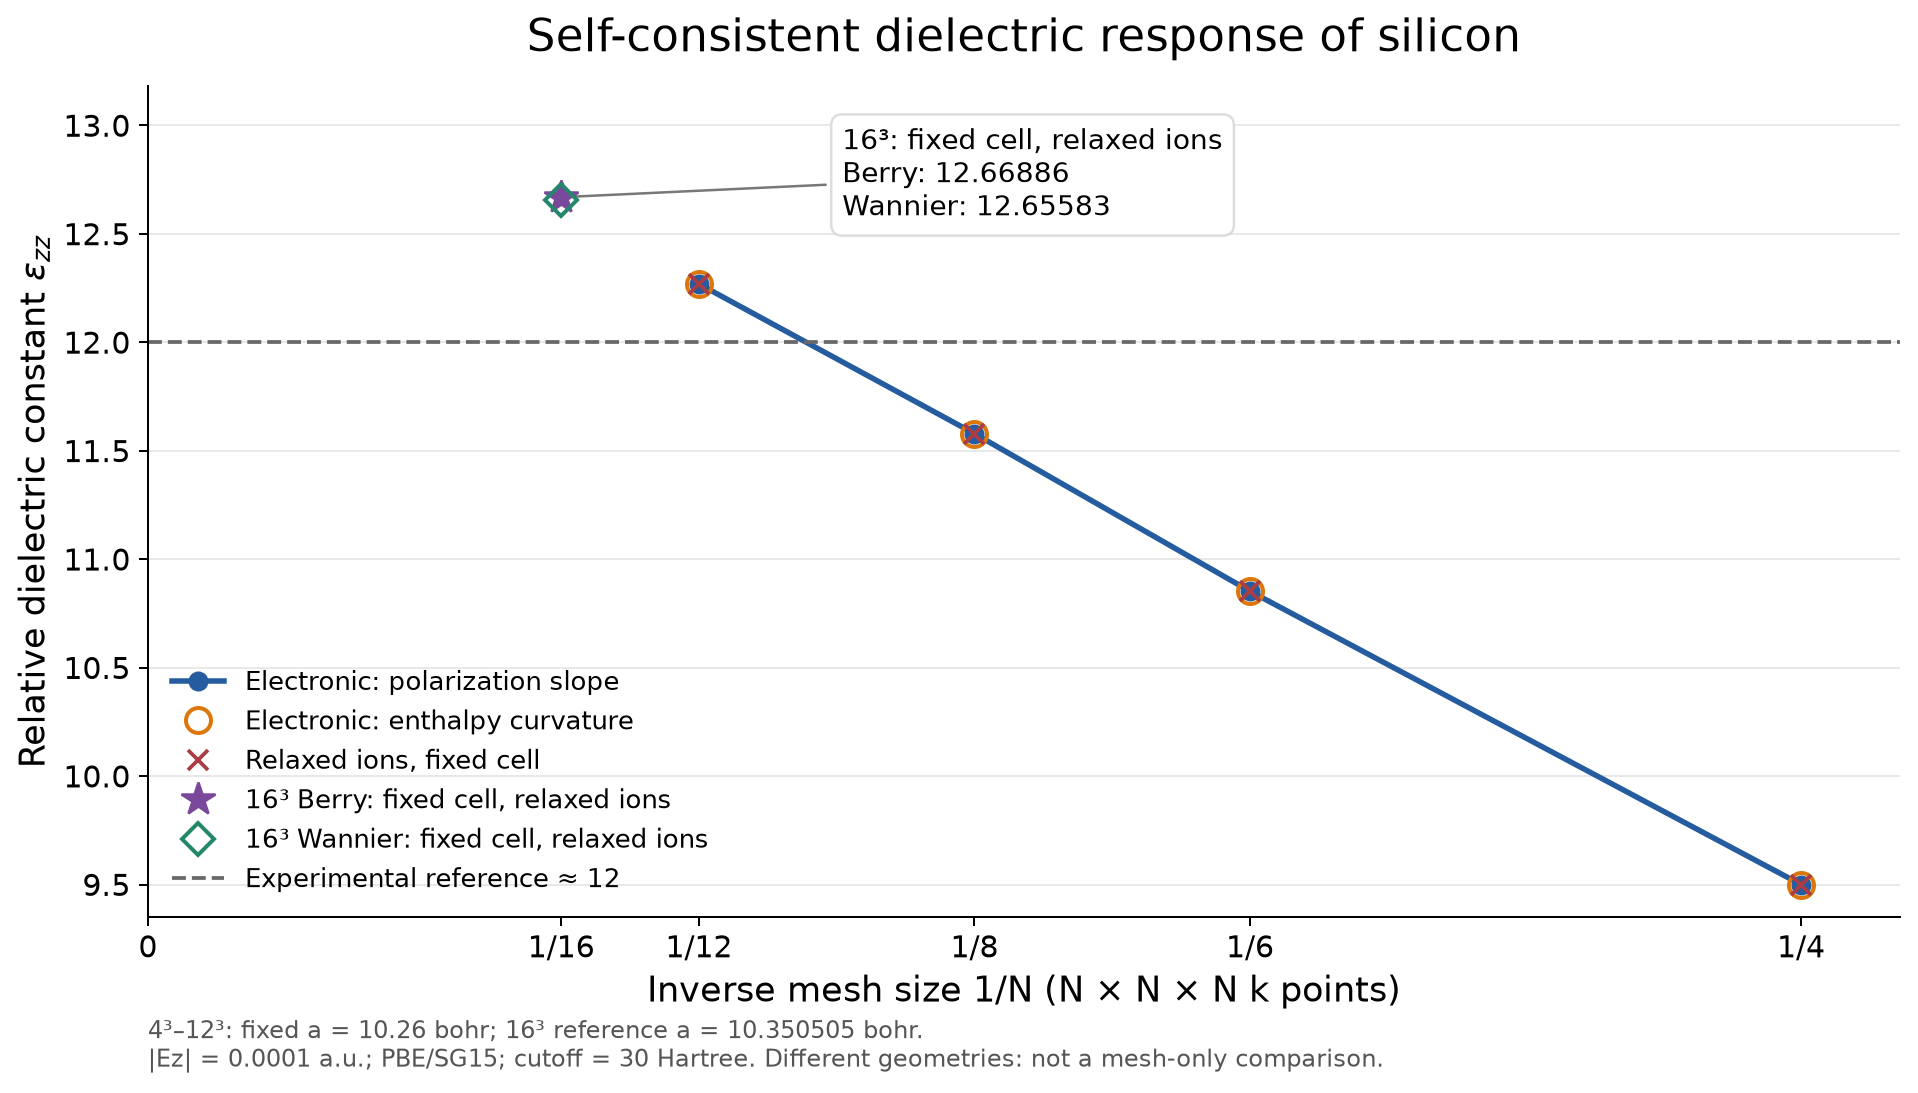
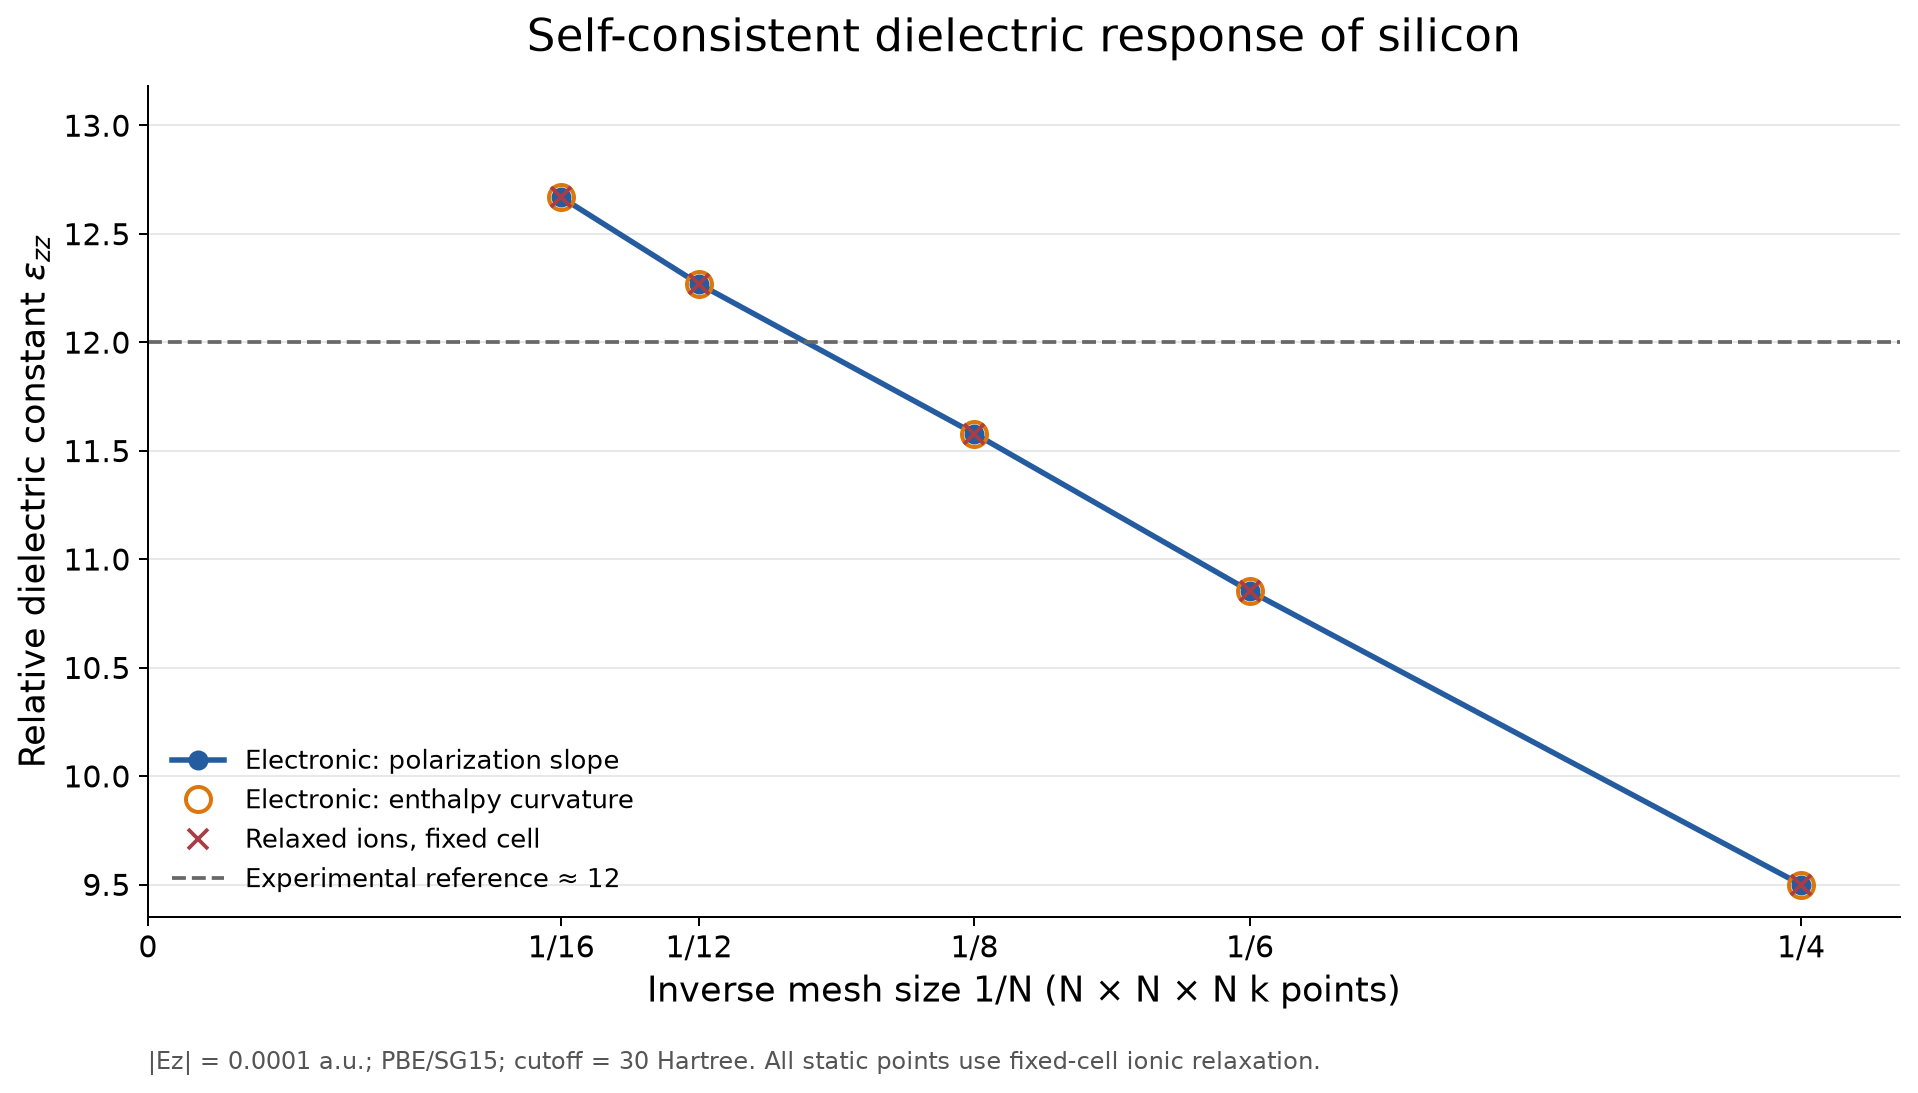
Show 16-cubed fixed-cell response in the standard convergence curves

diff --git a/examples/berry-dielectric-silicon/plot_convergence.py b/examples/berry-dielectric-silicon/plot_convergence.py
@@ -17,22 +17,20 @@ def main():
         rows = sorted((r for r in csv.DictReader(stream) if float(r['field_au']) == amplitude),
                       key=lambda r: int(r['mesh']))
     cell = json.loads((directory/'validation-cell-k16.json').read_text())
-    wannier = json.loads((directory/'validation-wannier-k16.json').read_text())
-    assert cell['mesh'] == wannier['mesh'] == [16, 16, 16]
-    berry_response = next(r for r in cell['responses']
-                          if r['mode'] == 'relaxed' and r['amplitude'] == amplitude)
-    wannier_response = next(r for r in wannier['response']
-                            if r['mode'] == 'relaxed' and r['amplitude'] == amplitude)
-    berry_value = berry_response['dielectric'][2][2]
-    wannier_value = wannier_response['dielectric'][2][2]
-    np.testing.assert_allclose(wannier_response['berry_dielectric'][2][2], berry_value, atol=1e-12)
-    r = np.array(berry_response['reference_lattice'])
-    lattice_constant = (4*np.linalg.det(r))**(1/3)
+    assert cell['mesh'] == [16, 16, 16]
+    clamped = next(r for r in cell['responses']
+                   if r['mode'] == 'clamped' and r['amplitude'] == amplitude)
+    relaxed = next(r for r in cell['responses']
+                   if r['mode'] == 'relaxed' and r['amplitude'] == amplitude)
     mesh = [int(row['mesh']) for row in rows]
-    inverse_mesh = 1/np.array(mesh, dtype=float)
     electronic = [float(row['epsilon_electronic_zz']) for row in rows]
     curvature = [float(row['epsilon_from_enthalpy_zz']) for row in rows]
     static = [float(row['epsilon_static_zz']) for row in rows]
+    mesh.append(16)
+    electronic.append(clamped['dielectric'][2][2])
+    curvature.append(clamped['curvature']['z'])
+    static.append(relaxed['dielectric'][2][2])
+    inverse_mesh = 1/np.array(mesh, dtype=float)
 
     plt.rcParams.update({'font.size': 12, 'axes.titlesize': 18, 'axes.labelsize': 14,
                          'pdf.fonttype': 42, 'ps.fonttype': 42})
@@ -44,18 +42,8 @@ def main():
             markersize=10, markeredgewidth=1.6, label='Electronic: enthalpy curvature')
     ax.plot(inverse_mesh, static, 'x', color='#a93d45', markersize=8, markeredgewidth=1.5,
             label='Relaxed ions, fixed cell')
-    # The 16³ reference geometry differs from the earlier mesh series.
-    ax.plot(1/16, berry_value, '*', color='#7a489a', markersize=14,
-            label='16³ Berry: fixed cell, relaxed ions', zorder=5)
-    ax.plot(1/16, wannier_value, 'D', color='#24876b', markerfacecolor='none',
-            markersize=9, markeredgewidth=1.6,
-            label='16³ Wannier: fixed cell, relaxed ions', zorder=6)
     ax.axhline(12, color='#686868', linestyle='--', linewidth=1.5,
                label='Experimental reference ≈ 12')
-    ax.annotate(f'16³: fixed cell, relaxed ions\nBerry: {berry_value:.5f}\nWannier: {wannier_value:.5f}',
-                xy=(1/16, berry_value), xytext=(.105, 13.00), fontsize=11,
-                va='top', arrowprops={'arrowstyle': '-', 'color': '#777777'},
-                bbox={'boxstyle': 'round,pad=.4', 'facecolor': 'white', 'edgecolor': '#dddddd'})
     ax.set_title('Self-consistent dielectric response of silicon', pad=14)
     ax.set_xlabel('Inverse mesh size 1/N (N × N × N k points)')
     ax.set_ylabel(r'Relative dielectric constant $\epsilon_{zz}$')
@@ -68,9 +56,8 @@ def main():
     ax.spines[['top', 'right']].set_visible(False)
     ax.legend(loc='lower left', frameon=False, fontsize=10.5)
     fig.text(.09, .045,
-             f'4³–12³: fixed a = 10.26 bohr; 16³ reference a = {lattice_constant:.6f} bohr.\n'
              '|Ez| = 0.0001 a.u.; PBE/SG15; cutoff = 30 Hartree. '
-             'Different geometries: not a mesh-only comparison.',
+             'All static points use fixed-cell ionic relaxation.',
              fontsize=9.5, color='#555555', va='bottom')
     for extension in ('png', 'pdf'):
         path = directory/f'validation-convergence.{extension}'

diff --git a/examples/berry-dielectric-silicon/VALIDATION.md b/examples/berry-dielectric-silicon/VALIDATION.md
@@ -42,9 +42,10 @@ limiting PBE value; the implementation does not fit to the experimental number.
 The plot uses inverse mesh size **1/N**, with zero marking the infinite-mesh
 limit, and includes the 16³ result with **fixed cell and relaxed ions**:
 **12.668863** from Berry polarization and **12.655829** from occupied Wannier
-centers. The 16³ points are shown separately because their fixed reference
-lattice constant is 10.350505 bohr, compared with 10.26 bohr for the 4³–12³
-series. The difference from 12³ includes both mesh and geometry changes;
+centers. The 16³ Berry result is included with the same markers and connecting curve
+as the other meshes; its Wannier comparison remains in the numerical report.
+The 16³ fixed reference lattice constant is 10.350505 bohr, compared with
+10.26 bohr for the 4³–12³ series. The difference from 12³ includes both mesh and geometry changes;
 no extrapolation is fitted. See the [Wannier comparison](VALIDATION_WANNIER_16.md)
 for the numerical records and the alternative cell-relaxed response.
 Regenerate the PNG and PDF from the committed data with
